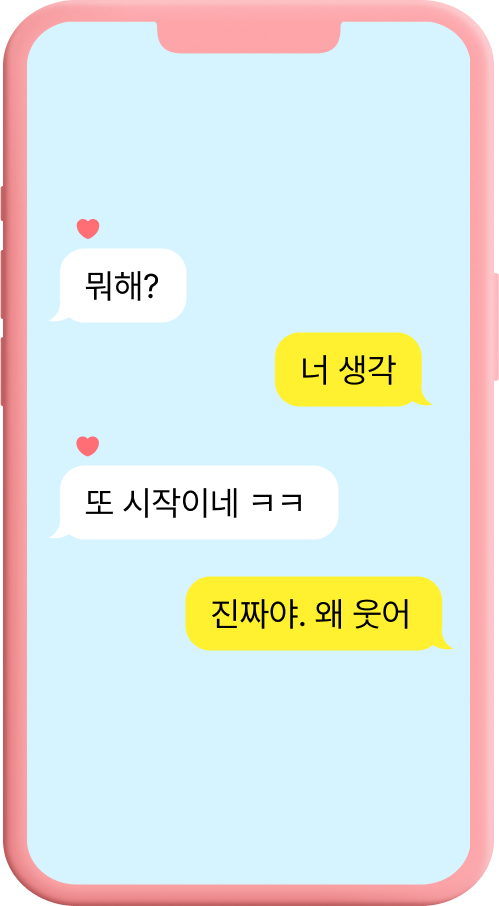
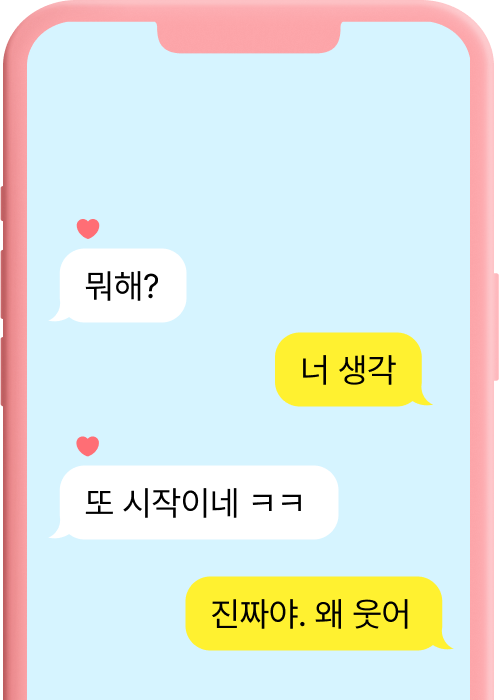
홈화면 수정

diff --git a/src/pages/RecommendPick.tsx b/src/pages/RecommendPick.tsx
@@ -1,0 +1,128 @@
+import React, { useState } from 'react';
+import { useNavigate } from 'react-router-dom';
+import Button from '../components/common/Button';
+import Header from '../components/common/Header';
+
+const RecommendFlow: React.FC = () => {
+  const [isDragOver, setIsDragOver] = useState(false);
+  const [showHeart, setShowHeart] = useState(false);
+  const navigate = useNavigate();
+
+  const handleDragOver = (e: React.DragEvent) => {
+    e.preventDefault();
+    setIsDragOver(true);
+  };
+
+  const handleDragLeave = (e: React.DragEvent) => {
+    e.preventDefault();
+    setIsDragOver(false);
+  };
+
+  const handleDrop = (e: React.DragEvent) => {
+    e.preventDefault();
+    setIsDragOver(false);
+    const files = e.dataTransfer.files;
+    console.log('Dropped files:', files);
+  };
+
+
+  const handleDirectPick = () => {
+    navigate('/recommendpick');
+  };
+
+  const handleRandomPick = () => {
+    navigate('/recommendrandom');
+  };
+
+  return (
+    <div className="w-full min-h-screen bg-white overflow-y-auto">
+      {/* 로고는 고정 크기 */}
+      <div className="pl-5 w-[300px]">
+        <Header />
+      </div>
+      
+      {/* 메인 콘텐츠 - 헤더와 간격 더 줄임 */}
+      {/* 메인 콘텐츠 */}
+      <div className="flex flex-col items-center w-full pt-[2vh] px-[5vw] pb-[10vh] overflow-y-auto">
+        {/* Page Title - 화면 크기에 비례 */}
+        <div className="text-center mb-[1vh] w-full px-[8vw]">
+          <div className="flex items-center justify-center space-x-[1.2vw]">
+          <span className="text-[3vw] font-yspotlight text-custom-pink">왛</span>
+            <h1 className="text-[4vw] font-yspotlight text-black">
+              대화 주제를 추천해줄게요
+            </h1>
+            <span className="text-[3vw] font-yspotlight text-custom-pink">왛</span>
+          </div>
+          
+          {/* 옵션 버튼들 */}
+          <div className="flex justify-center space-x-[2vw] mt-[2vh]">
+            <Button 
+              variant="gray-outline" 
+              size="sm"
+              onClick={handleDirectPick}
+              className="px-[2vw] py-[1vh] text-[1.18vw] font-pretendard"
+            >
+              직접 주제 고르기
+            </Button>
+            <Button 
+              variant="outline" 
+              size="sm"
+              className="px-[2vw] py-[1vh] text-[1.18vw] font-pretendard"
+            >
+              대화 흐름 이어가기
+            </Button>
+            <Button 
+              variant="gray-outline" 
+              size="sm"
+              onClick={handleRandomPick}
+              className="px-[2vw] py-[1vh] text-[1.18vw] font-pretendard"
+            >
+              랜덤 대화 주제
+            </Button>
+          </div>
+
+          <p className="text-[1.5vw] text-black font-yspotlight mt-[5vh]">
+            먼저, 대화 상황에 어울리는 카테고리를 골라주세요
+          </p>
+        </div>
+
+
+
+        {/* ✅ 정확한 스크린샷과 같은 레이아웃 */}
+        <div className="w-[150vw] max-w-[600px] mt-[5vh] flex flex-wrap items-start">
+          {[
+            "장난스럽게", "너에 대해 더 알고 싶어", "설렘이 필요할 때",
+            "취향 공유하기", "과거 이야기", "은근히 떠보기",
+            "가벼운 농담", "연애 가치관", "일상 공유형", "이상형 토크",
+            "연애 밸런스 게임", "티나는 호감 표현", "TMI 폭격 !"
+          ].map((text, index) => (
+            <div
+          key={index}
+          className="inline-block px-4 py-2 mr-2 mb-2 rounded-[10px] bg-white border border-gray-300 whitespace-nowrap 
+                    text-[30px] font-pretendard font-semibold text-[#8A898ECC]"
+        >
+          {text}
+        </div>
+
+          ))}
+        </div>
+        
+
+        {/* Action Button - 화면 크기에 비례 */}
+        <div className="w-full mt-[5vh]">
+          <Button 
+            variant="primary" 
+            size="lg"
+            onClick={() => console.log('분석 시작')}
+            className="h-[8vh] text-[1.7vw] font-semibold px-[5vw] mx-auto block"
+          >
+            선택하기
+          </Button>
+        </div>
+
+      </div>
+    </div>
+  );
+};
+
+export default RecommendFlow;

diff --git a/src/pages/HomePage.tsx b/src/pages/HomePage.tsx
@@ -5,14 +5,22 @@ import Button from '../components/common/Button';
 
 function HomePage() {
   return (
-    <div className="w-full min-h-screen bg-white flex flex-col items-center justify-center overflow-hidden px-[5vw] py-[5vh]">
+    <div className="w-full min-h-screen bg-white flex flex-col items-center justify-center overflow-hidden px-[5vw] ">
       {/* 상단 - 핸드폰 이미지 + 로고 */}
-      <div className="flex flex-col lg:flex-row items-center justify-center w-full space-y-[5vh] lg:space-y-0 lg:space-x-[5vw]">
+      <div className="flex flex-col lg:flex-row items-center justify-center w-full space-y-[5vh] lg:space-y-0 lg:space-x-[5vw] h-[100vh]">
         {/* 핸드폰 이미지 */}
         <img
           src={phoneImage}
           alt="핸드폰"
-          className="w-[50vw] max-w-[540px] h-auto object-contain mt-[4vh] lg:mt-[10vh]"
+          className="object-contain 
+    self-end
+    w-full
+    max-w-[400px] 
+    sm:max-w-[300px] 
+    md:max-w-[400px] 
+    lg:max-w-[450px] 
+    xl:max-w-[500px]
+    h-auto"
         />
 
         {/* 로고 + 버튼들 */}
@@ -43,4 +51,4 @@ function HomePage() {
   );
 }
 
-export default HomePage;
+export default HomePage; 
